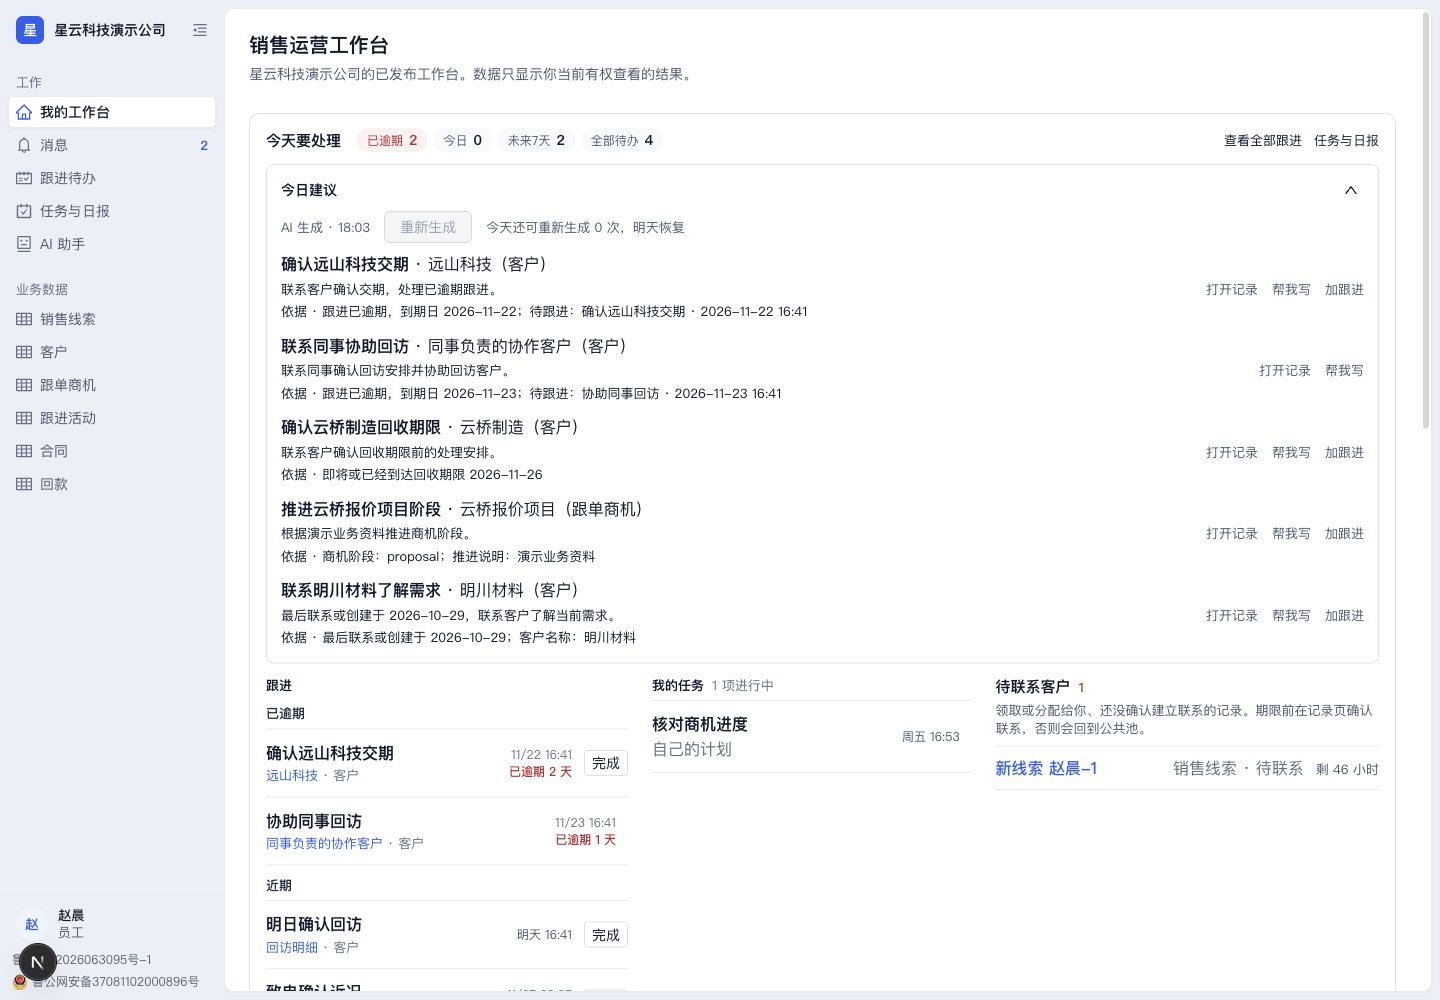
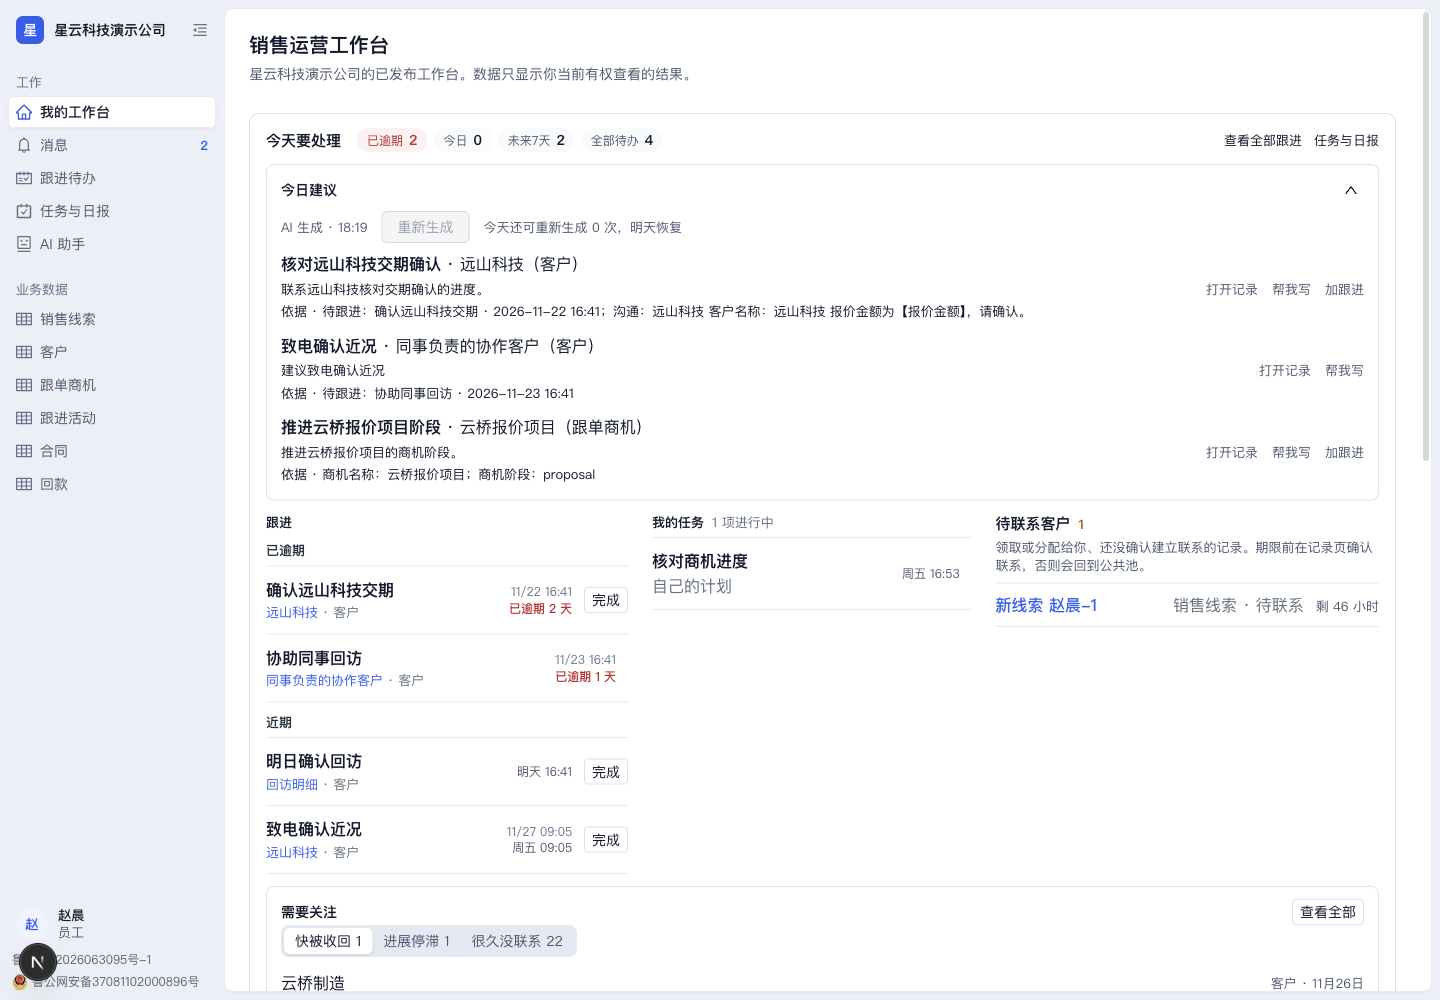
Verify the final sales suggestions and measured wait time in Chromium

diff --git a/apps/web/src/features/ai/generation-wait.tsx b/apps/web/src/features/ai/generation-wait.tsx
@@ -3,7 +3,7 @@
 import { useEffect, useState } from "react";
 
 // Rounded median wall times from the sales-daily development set.
-const seconds = { daily_brief: 15, writing: 5, daily_report: 1 };
+const seconds = { daily_brief: 2, writing: 5, daily_report: 1 };
 
 export function GenerationWait({ feature }: { feature: keyof typeof seconds }) {
   const [slow, setSlow] = useState(false);

diff --git a/docs/audits/2026-11-24/ai-sales-daily/browser/README.md b/docs/audits/2026-11-24/ai-sales-daily/browser/README.md
@@ -25,10 +25,35 @@
 
 两种宽度均在 Next 开发模式和 Chromium UTC 时区下复验，测试公司使用上海时区。原来的「1 Issue」可以在直接打开远山科技详情时复现。记录更新于 `2026-11-24T08:41Z`，服务端显示 16:41，浏览器初次渲染显示 08:41，React 在 `RecordDetailPage` 的 `<time>` 节点报告 hydration mismatch。现在详情从记录分页响应读取公司的 `timeZone`，两端均显示 16:41。重新打开带助手和仅开通写作的入口，均保留 Next 开发工具按钮，均未出现 Issue 徽标。
 
-- 赵晨的今日建议、报价微信和拜访准备通过本地 Nest 接口请求 DeepSeek Responses，只使用独立种子库里的合成客户资料。建议请求用时 21.64 秒，工作台展示 5 条具体跟进标题、行动说明及依据。独立账号的写作抽屉可直接进入写作，拥有助手权益时可用标题左侧箭头返回。
+- 赵晨的今日建议、报价微信和拜访准备通过本地 Nest 接口请求 DeepSeek Responses，只使用独立种子库里的合成客户资料。赵晨有 26 条候选、58 条事实。原提示的真实响应在收紧的文案校验下有 3/5 条回退。调整提示后，默认推理连续三次用尽 5,400 输出 token，用时 29.25、28.60、27.88 秒；第三次在提供方边界记录到 `INCOMPLETE_OUTPUT`，`finishReason=length`。对相同资料关闭推理后，4.01 秒生成 5 条建议（输入 2,405 token，输出 360 token）。其中「协助回访协作客户」「推进云桥报价项目」保留了模型文案，另 3 条回退。此批缓存只保存校验后的结果，不能据此还原三条被替换的原文。
+- 写作抽屉使用项目的下拉组件。拥有助手权益时可用标题左侧箭头返回，只开通写作时直接从记录页进入。首次生成报价微信曾返回 503，后续真实请求生成了带报价金额占位符的微信和四部分拜访提纲。此处是浏览器手工复验，未计入开发集样本。
 - 孙悦原有 1 条需要关注的记录。她此前成功生成过一条建议，但再次打开时事实或可见范围已发生变化，缓存重验后剩下 0 条。另在克隆库复现校验后缓存为空的状态，页面分别说明了原因。两张图都保留了下方的「很久没联系 1」。
-- 等待截图在克隆库设置正在生成的租约，以便稳定复现另一个窗口已开始生成的状态。生成超过 10 秒后，按钮仍显示「生成中」，并出现通常耗时提示。计时器的单测覆盖第 9,999 毫秒、第 10,000 毫秒和取消生成。
+- 等待截图在克隆库设置正在生成的租约，以便稳定复现另一个窗口已开始生成的状态。生成超过 10 秒后，按钮仍显示「生成中」，并显示「通常需要 2 秒」，取开发集 p50 1.913 秒的近似值。计时器的单测覆盖第 9,999 毫秒、第 10,000 毫秒和取消生成。
 - 公司设置导航、标题和说明均可对应到工作台「需要关注」。实测两项单选框圆点与标签文字的垂直中心相差不足 0.01 CSS 像素。
+
+### 调整业务事实输入前的对照
+
+在提供方返回结果、服务端开始文案校验的位置记录合成样本，再用相同 26 条候选请求一次。调用用时 3.81 秒（输入 2,405 token，输出 357 token），5 条建议中有 4 条回退。下表保留这次真实原文、模型选择的事实和当时的校验结果。
+
+| 记录 | 模型原始标题 | 模型原始说明 | 引用事实与校验结果 |
+| --- | --- | --- | --- |
+| 远山科技 | 核对远山科技交期 | 联系远山科技经办人核对交期，并确认报价金额。 | 已引用「确认远山科技交期」的待办及含「报价金额」占位符的沟通。公司名检查把「核对远山科技」和「联系远山科技」视为新的单位名称，误拒了两处文案。 |
+| 同事负责的协作客户 | 协助同事回访协作客户 | 联系同事负责的协作客户，协助同事完成回访。 | 引用逾期信号和待办「协助同事回访」。文案另取了记录名中的「协作」「负责」，模型没有引用名称字段，触发跨事实词项检查。 |
+| 云桥制造 | 了解云桥制造需求 | 联系『云桥制造』了解需求，询问近期有无需要协助的事项。 | 仅有名称和系统回收期限，没有具体待办。标题通过；说明中开放式询问所用的「协助」也出现在其他候选的事实中，词项检查误拒整条。 |
+| 云桥报价项目 | 推进云桥报价项目阶段 | 推进云桥报价项目的proposal阶段，处理演示业务资料。 | 引用了商机名、阶段 `proposal` 和推进说明「演示业务资料」，标题及说明均保留。 |
+| 明川材料 | 了解明川材料需求 | 联系『明川材料』了解需求，询问近期有无需要协助的事项。 | 仅有名称和系统久未联系信号，没有具体待办。标题通过，说明中的「协助」触发了与云桥制造相同的误拒。 |
+
+### 最终页面上的建议
+
+仍用赵晨的 26 个候选，只将业务事实交给模型起草，CRM 排序理由保留给页面展示。最终真实请求用时 3.004 秒（输入 1,647 token，输出 180 token）。模型选出三条，两条保留原始文案，一条回退。两种宽度的建议截图均取自这次响应。
+
+| 记录 | 模型原始标题 | 模型原始说明 | 页面结果 |
+| --- | --- | --- | --- |
+| 远山科技 | 核对远山科技交期确认 | 联系远山科技核对交期确认的进度。 | 保留。引用了「确认远山科技交期」的待办和远山科技的报价沟通。 |
+| 同事负责的协作客户 | 协助同事回访 | 协助同事完成协作客户的回访。 | 标题通过。说明写了「协作」，所引待办只有「协助同事回访」，没有引用包含「协作」的名称字段。页面回退为「致电确认近况」。这条记录有具体待办，模型所选的引用不足以支持整条说明。 |
+| 云桥报价项目 | 推进云桥报价项目阶段 | 推进云桥报价项目的商机阶段。 | 保留。引用了商机名和商机阶段。 |
+
+开发集和留出集的整体比例见[第三轮报告](../round-3/README.md)。
 
 ## 首轮功能与数据库结果
 
